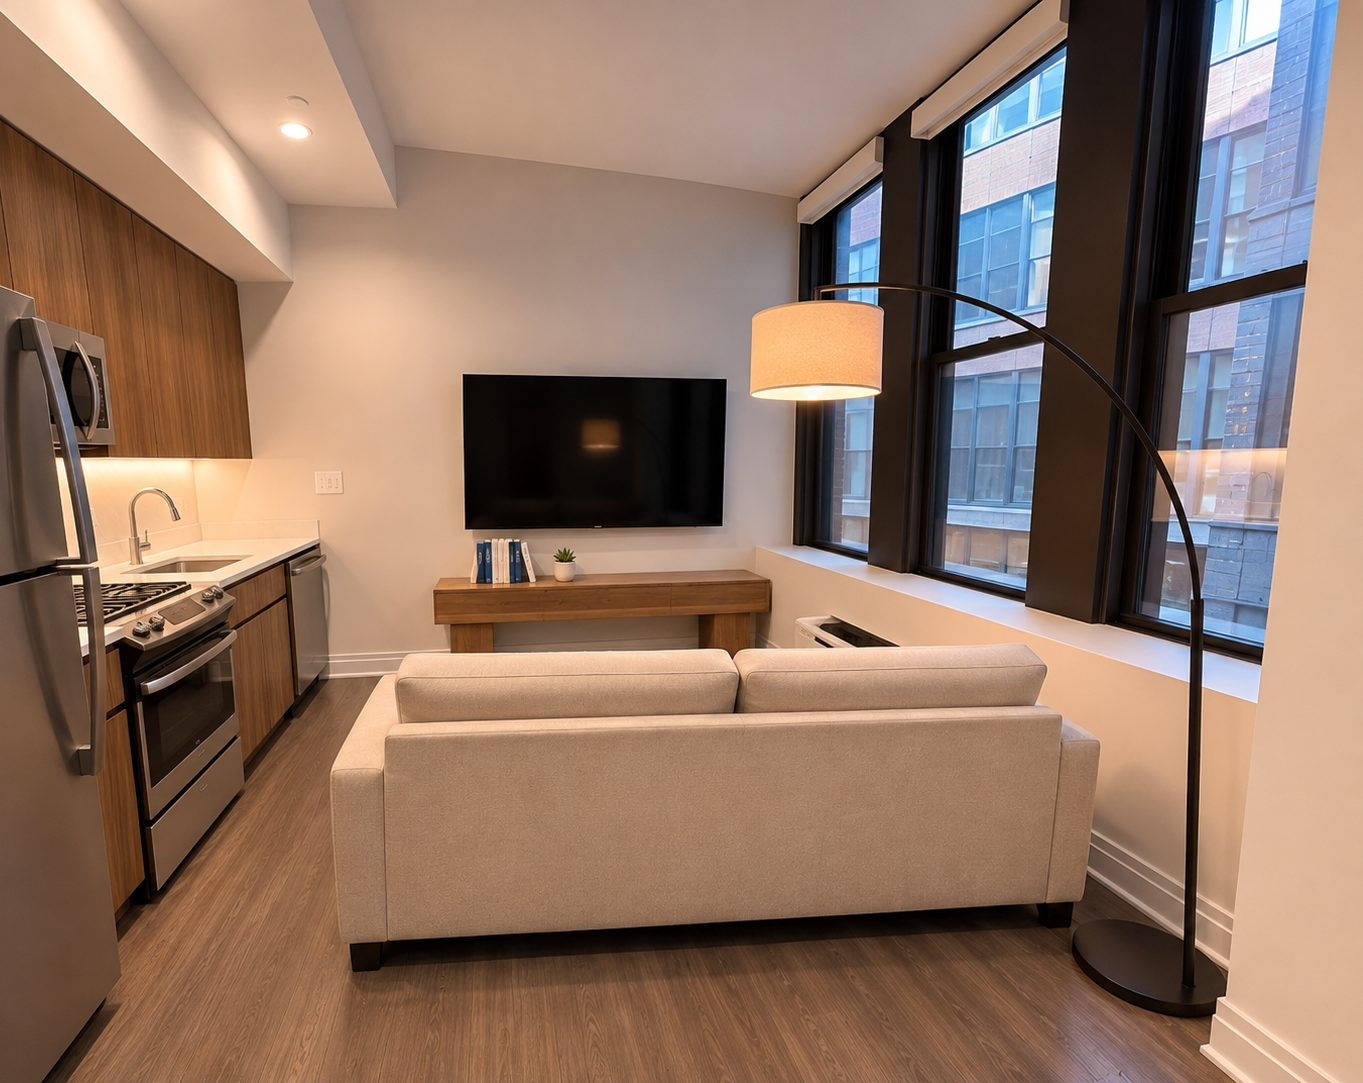
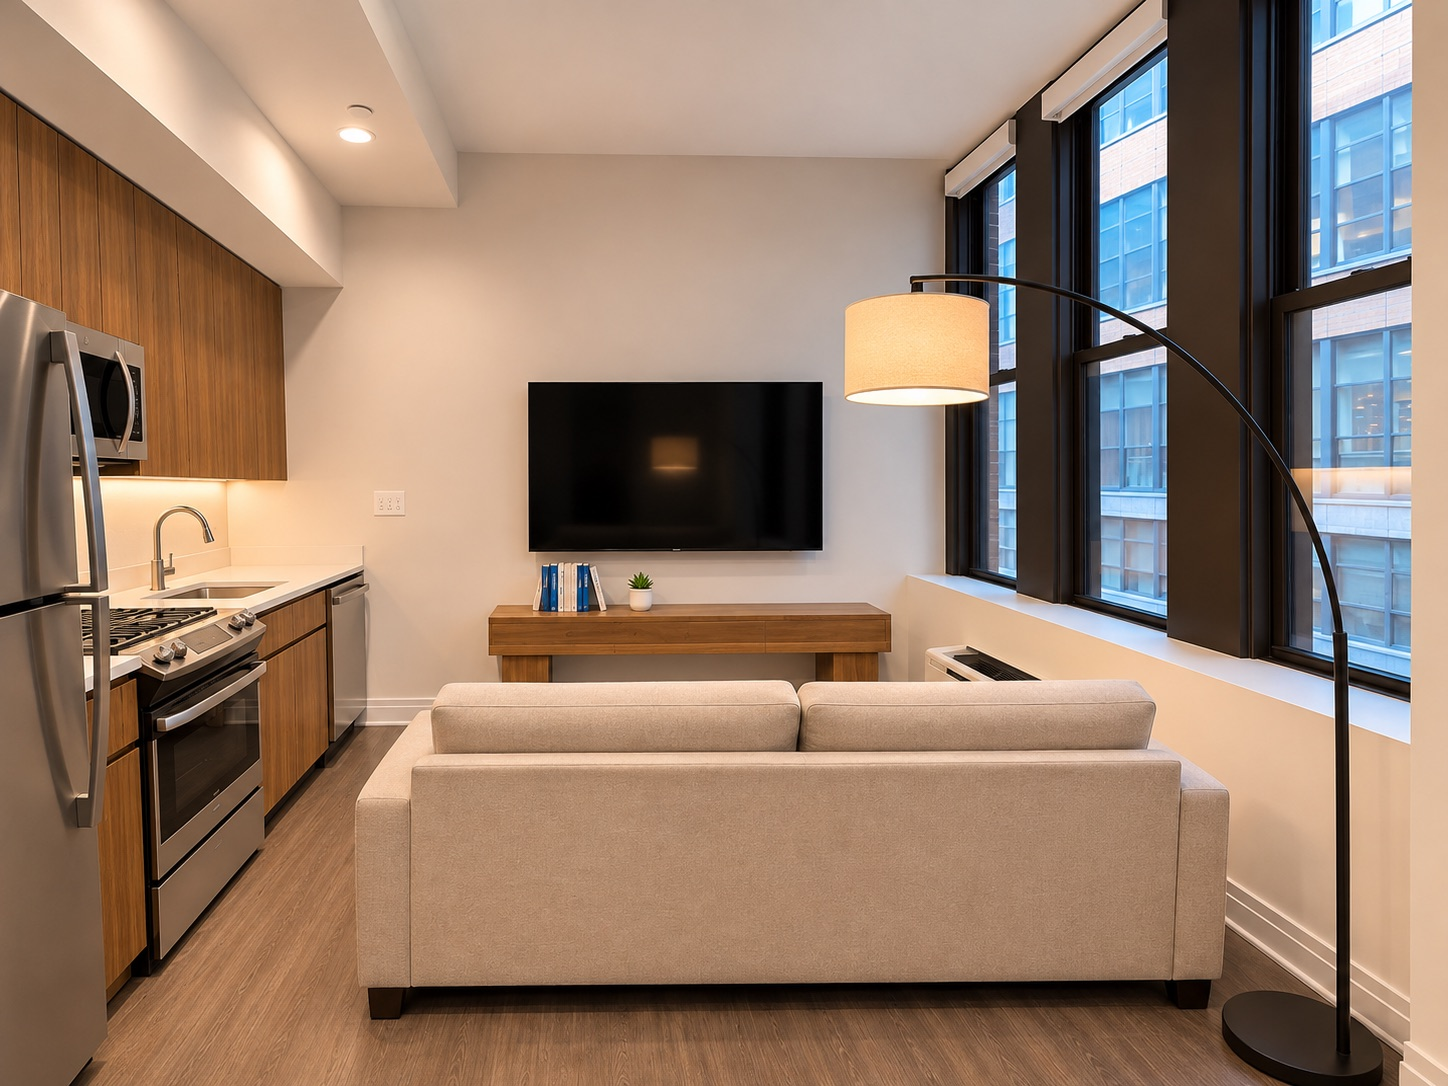
15 Park Row 5C: add bathroom photo, new floor plan, centered living room
- park-row-5c-1.jpg: replaced with the centered living room / kitchen shot,
  card regenerated from it
- park-row-5c-10.jpg: replaced with the clean horizontal floor plan, padded
  to 4:3 on white
- park-row-5c-11.jpg: bathroom, new, ordered 4th (after the bedroom) so it
  shows in the gallery grid
- ?v=2 on both replaced filenames, on the page and on the availability card

diff --git a/availability.html b/availability.html
@@ -191,7 +191,7 @@
     <div class="pcard" data-id="p-park-row-8e" data-bld="b-parkrow" data-hood="Financial District" data-beds="1"><a class="pcard-a" href="park-row-8e.html"><div class="img" data-bg="15-park-row-8e-git/park-row-8e-1-card.jpg"></div><div class="body"><div><div class="name">15 Park Row</div><div class="unit">Unit 8E</div><div class="hood">Financial District, Manhattan</div></div><div><div class="meta"><span>1 Bed</span><span>1 Bath</span></div><div class="row"><span></span><span class="lnk">View home &#8594;</span></div></div></div></a><div class="pcard-foot"><span class="avail-badge" data-avail-badge="park-row-8e"></span><a class="pcard-book" href="park-row-8e.html">Check dates &amp; price</a></div></div>
     <div class="pcard" data-id="p-park-row-17g" data-bld="b-parkrow" data-hood="Financial District" data-beds="Studio"><a class="pcard-a" href="park-row-17g.html"><div class="img" data-bg="15-park-row-17g-git/park-row-17g-1-card.jpg"></div><div class="body"><div><div class="name">15 Park Row</div><div class="unit">Unit 17G</div><div class="hood">Financial District, Manhattan</div></div><div><div class="meta"><span>Studio</span><span>1 Bath</span></div><div class="row"><span></span><span class="lnk">View home &#8594;</span></div></div></div></a><div class="pcard-foot"><span class="avail-badge" data-avail-badge="park-row-17g"></span><a class="pcard-book" href="park-row-17g.html">Check dates &amp; price</a></div></div>
     <div class="pcard" data-id="p-park-row-17f" data-bld="b-parkrow" data-hood="Financial District" data-beds="1"><a class="pcard-a" href="park-row-17f.html"><div class="img" data-bg="15-park-row-17f-git/park-row-17f-1-card.jpg"></div><div class="body"><div><div class="name">15 Park Row</div><div class="unit">Unit 17F</div><div class="hood">Financial District, Manhattan</div></div><div><div class="meta"><span>1 Bed</span><span>1 Bath</span></div><div class="row"><span></span><span class="lnk">View home &#8594;</span></div></div></div></a><div class="pcard-foot"><span class="avail-badge" data-avail-badge="park-row-17f"></span><a class="pcard-book" href="park-row-17f.html">Check dates &amp; price</a></div></div>
-    <div class="pcard" data-id="p-park-row-5c" data-bld="b-parkrow" data-hood="Financial District" data-beds="1"><a class="pcard-a" href="park-row-5c.html"><div class="img" data-bg="15-park-row-5c-git/park-row-5c-1-card.jpg"></div><div class="body"><div><div class="name">15 Park Row</div><div class="unit">Unit 5C</div><div class="hood">Financial District, Manhattan</div></div><div><div class="meta"><span>1 Bed</span><span>1 Bath</span></div><div class="row"><span></span><span class="lnk">View home &#8594;</span></div></div></div></a><div class="pcard-foot"><span class="avail-badge" data-avail-badge="park-row-5c"></span><a class="pcard-book" href="park-row-5c.html">Check dates &amp; price</a></div></div>
+    <div class="pcard" data-id="p-park-row-5c" data-bld="b-parkrow" data-hood="Financial District" data-beds="1"><a class="pcard-a" href="park-row-5c.html"><div class="img" data-bg="15-park-row-5c-git/park-row-5c-1-card.jpg?v=2"></div><div class="body"><div><div class="name">15 Park Row</div><div class="unit">Unit 5C</div><div class="hood">Financial District, Manhattan</div></div><div><div class="meta"><span>1 Bed</span><span>1 Bath</span></div><div class="row"><span></span><span class="lnk">View home &#8594;</span></div></div></div></a><div class="pcard-foot"><span class="avail-badge" data-avail-badge="park-row-5c"></span><a class="pcard-book" href="park-row-5c.html">Check dates &amp; price</a></div></div>
     <div class="pcard" data-id="p-park-row-14g" data-bld="b-parkrow" data-hood="Financial District" data-beds="Studio"><a class="pcard-a" href="park-row-14g.html"><div class="img" data-bg="15-park-row-14g-git/park-row-14g-1-card.jpg"></div><div class="body"><div><div class="name">15 Park Row</div><div class="unit">Unit 14G</div><div class="hood">Financial District, Manhattan</div></div><div><div class="meta"><span>Studio</span><span>1 Bath</span></div><div class="row"><span></span><span class="lnk">View home &#8594;</span></div></div></div></a><div class="pcard-foot"><span class="avail-badge" data-avail-badge="park-row-14g"></span><a class="pcard-book" href="park-row-14g.html">Check dates &amp; price</a></div></div>
     <div class="pcard" data-id="p-atlas-34h" data-bld="b-atlas" data-hood="Midtown South" data-beds="2"><a class="pcard-a" href="atlas-34h.html"><div class="img" data-bg="atlas-h-line-git/atlas-h-1-card.jpg"></div><div class="body"><div><div class="name">Atlas New York</div><div class="unit">Unit 34H</div><div class="hood">Midtown South, Manhattan</div></div><div><div class="meta"><span>2 Bed</span><span>1 Bath</span></div><div class="row"><span></span><span class="lnk">View home &#8594;</span></div></div></div></a><div class="pcard-foot"><span class="avail-badge" data-avail-badge="atlas-34h"></span><a class="pcard-book" href="atlas-34h.html">Check dates &amp; price</a></div></div>
     <div class="pcard" data-id="p-atlas-39h" data-bld="b-atlas" data-hood="Midtown South" data-beds="2"><a class="pcard-a" href="atlas-39h.html"><div class="img" data-bg="atlas-h-line-git/atlas-h-1-card.jpg"></div><div class="body"><div><div class="name">Atlas New York</div><div class="unit">Unit 39H</div><div class="hood">Midtown South, Manhattan</div></div><div><div class="meta"><span>2 Bed</span><span>1 Bath</span></div><div class="row"><span></span><span class="lnk">View home &#8594;</span></div></div></div></a><div class="pcard-foot"><span class="avail-badge" data-avail-badge="atlas-39h"></span><a class="pcard-book" href="atlas-39h.html">Check dates &amp; price</a></div></div>
@@ -308,7 +308,7 @@
         {unit:'8E', meta:'1 Bed, 1 Bath', url:'park-row-8e.html', img:'15-park-row-8e-git/park-row-8e-1-card.jpg'},
         {unit:'17G', meta:'Studio, 1 Bath', url:'park-row-17g.html', img:'15-park-row-17g-git/park-row-17g-1-card.jpg'},
         {unit:'17F', meta:'1 Bed, 1 Bath', url:'park-row-17f.html', img:'15-park-row-17f-git/park-row-17f-1-card.jpg'},
-        {unit:'5C', meta:'1 Bed, 1 Bath', url:'park-row-5c.html', img:'15-park-row-5c-git/park-row-5c-1-card.jpg'},
+        {unit:'5C', meta:'1 Bed, 1 Bath', url:'park-row-5c.html', img:'15-park-row-5c-git/park-row-5c-1-card.jpg?v=2'},
         {unit:'14G', meta:'Studio, 1 Bath', url:'park-row-14g.html', img:'15-park-row-14g-git/park-row-14g-1-card.jpg'}
       ]
     },

diff --git a/park-row-5c.html b/park-row-5c.html
@@ -140,19 +140,20 @@
   </section>
 
   <section class="gallery">
-    <div class="gimg big" style="background-image:url('15-park-row-5c-git/park-row-5c-1.jpg')" onclick="openLightbox(0)"></div>
+    <div class="gimg big" style="background-image:url('15-park-row-5c-git/park-row-5c-1.jpg?v=2')" onclick="openLightbox(0)"></div>
       <div class="gimg" style="background-image:url('15-park-row-5c-git/park-row-5c-2.jpg')" onclick="openLightbox(1)"></div>
       <div class="gimg" style="background-image:url('15-park-row-5c-git/park-row-5c-3.jpg')" onclick="openLightbox(2)"></div>
-      <div class="gimg" style="background-image:url('15-park-row-5c-git/park-row-5c-4.jpg')" onclick="openLightbox(3)"></div>
-      <div class="gimg" style="background-image:url('15-park-row-5c-git/park-row-5c-5.jpg')" onclick="openLightbox(4)"></div>
-      <div class="gimg" style="background-image:url('15-park-row-5c-git/park-row-5c-6.jpg')" onclick="openLightbox(5)"></div>
-      <div class="gimg" style="background-image:url('15-park-row-5c-git/park-row-5c-7.jpg')" onclick="openLightbox(6)"></div>
-      <div class="gimg" style="background-image:url('15-park-row-5c-git/park-row-5c-8.jpg')" onclick="openLightbox(7)"></div>
-      <div class="gimg" style="background-image:url('15-park-row-5c-git/park-row-5c-9.jpg')" onclick="openLightbox(8)"></div>
-      <div class="gimg" style="background-image:url('15-park-row-5c-git/park-row-5c-10.jpg')" onclick="openLightbox(9)"></div>
+      <div class="gimg" style="background-image:url('15-park-row-5c-git/park-row-5c-11.jpg')" onclick="openLightbox(3)"></div>
+      <div class="gimg" style="background-image:url('15-park-row-5c-git/park-row-5c-4.jpg')" onclick="openLightbox(4)"></div>
+      <div class="gimg" style="background-image:url('15-park-row-5c-git/park-row-5c-5.jpg')" onclick="openLightbox(5)"></div>
+      <div class="gimg" style="background-image:url('15-park-row-5c-git/park-row-5c-6.jpg')" onclick="openLightbox(6)"></div>
+      <div class="gimg" style="background-image:url('15-park-row-5c-git/park-row-5c-7.jpg')" onclick="openLightbox(7)"></div>
+      <div class="gimg" style="background-image:url('15-park-row-5c-git/park-row-5c-8.jpg')" onclick="openLightbox(8)"></div>
+      <div class="gimg" style="background-image:url('15-park-row-5c-git/park-row-5c-9.jpg')" onclick="openLightbox(9)"></div>
+      <div class="gimg" style="background-image:url('15-park-row-5c-git/park-row-5c-10.jpg?v=2');background-size:contain;background-repeat:no-repeat;background-color:#fff" onclick="openLightbox(10)"></div>
   </section>
 
-  <div class="gallery-cta"><button onclick="openLightbox(0)">View All 10 Photos</button></div>
+  <div class="gallery-cta"><button onclick="openLightbox(0)">View All 11 Photos</button></div>
 
   <section class="pmain">
     <div class="pdesc">
@@ -187,7 +188,7 @@
 
 <script src="https://unpkg.com/leaflet@1.9.4/dist/leaflet.js" integrity="sha384-cxOPjt7s7Iz04uaHJceBmS+qpjv2JkIHNVcuOrM+YHwZOmJGBXI00mdUXEq65HTH" crossorigin="anonymous" referrerpolicy="no-referrer"></script>
 <script>
-  const photos = ['15-park-row-5c-git/park-row-5c-1.jpg','15-park-row-5c-git/park-row-5c-2.jpg','15-park-row-5c-git/park-row-5c-3.jpg','15-park-row-5c-git/park-row-5c-4.jpg','15-park-row-5c-git/park-row-5c-5.jpg','15-park-row-5c-git/park-row-5c-6.jpg','15-park-row-5c-git/park-row-5c-7.jpg','15-park-row-5c-git/park-row-5c-8.jpg','15-park-row-5c-git/park-row-5c-9.jpg','15-park-row-5c-git/park-row-5c-10.jpg'];
+  const photos = ['15-park-row-5c-git/park-row-5c-1.jpg?v=2','15-park-row-5c-git/park-row-5c-2.jpg','15-park-row-5c-git/park-row-5c-3.jpg','15-park-row-5c-git/park-row-5c-11.jpg','15-park-row-5c-git/park-row-5c-4.jpg','15-park-row-5c-git/park-row-5c-5.jpg','15-park-row-5c-git/park-row-5c-6.jpg','15-park-row-5c-git/park-row-5c-7.jpg','15-park-row-5c-git/park-row-5c-8.jpg','15-park-row-5c-git/park-row-5c-9.jpg','15-park-row-5c-git/park-row-5c-10.jpg?v=2'];
   let currentPhoto = 0;
   function openLightbox(i) {
     currentPhoto = i;
